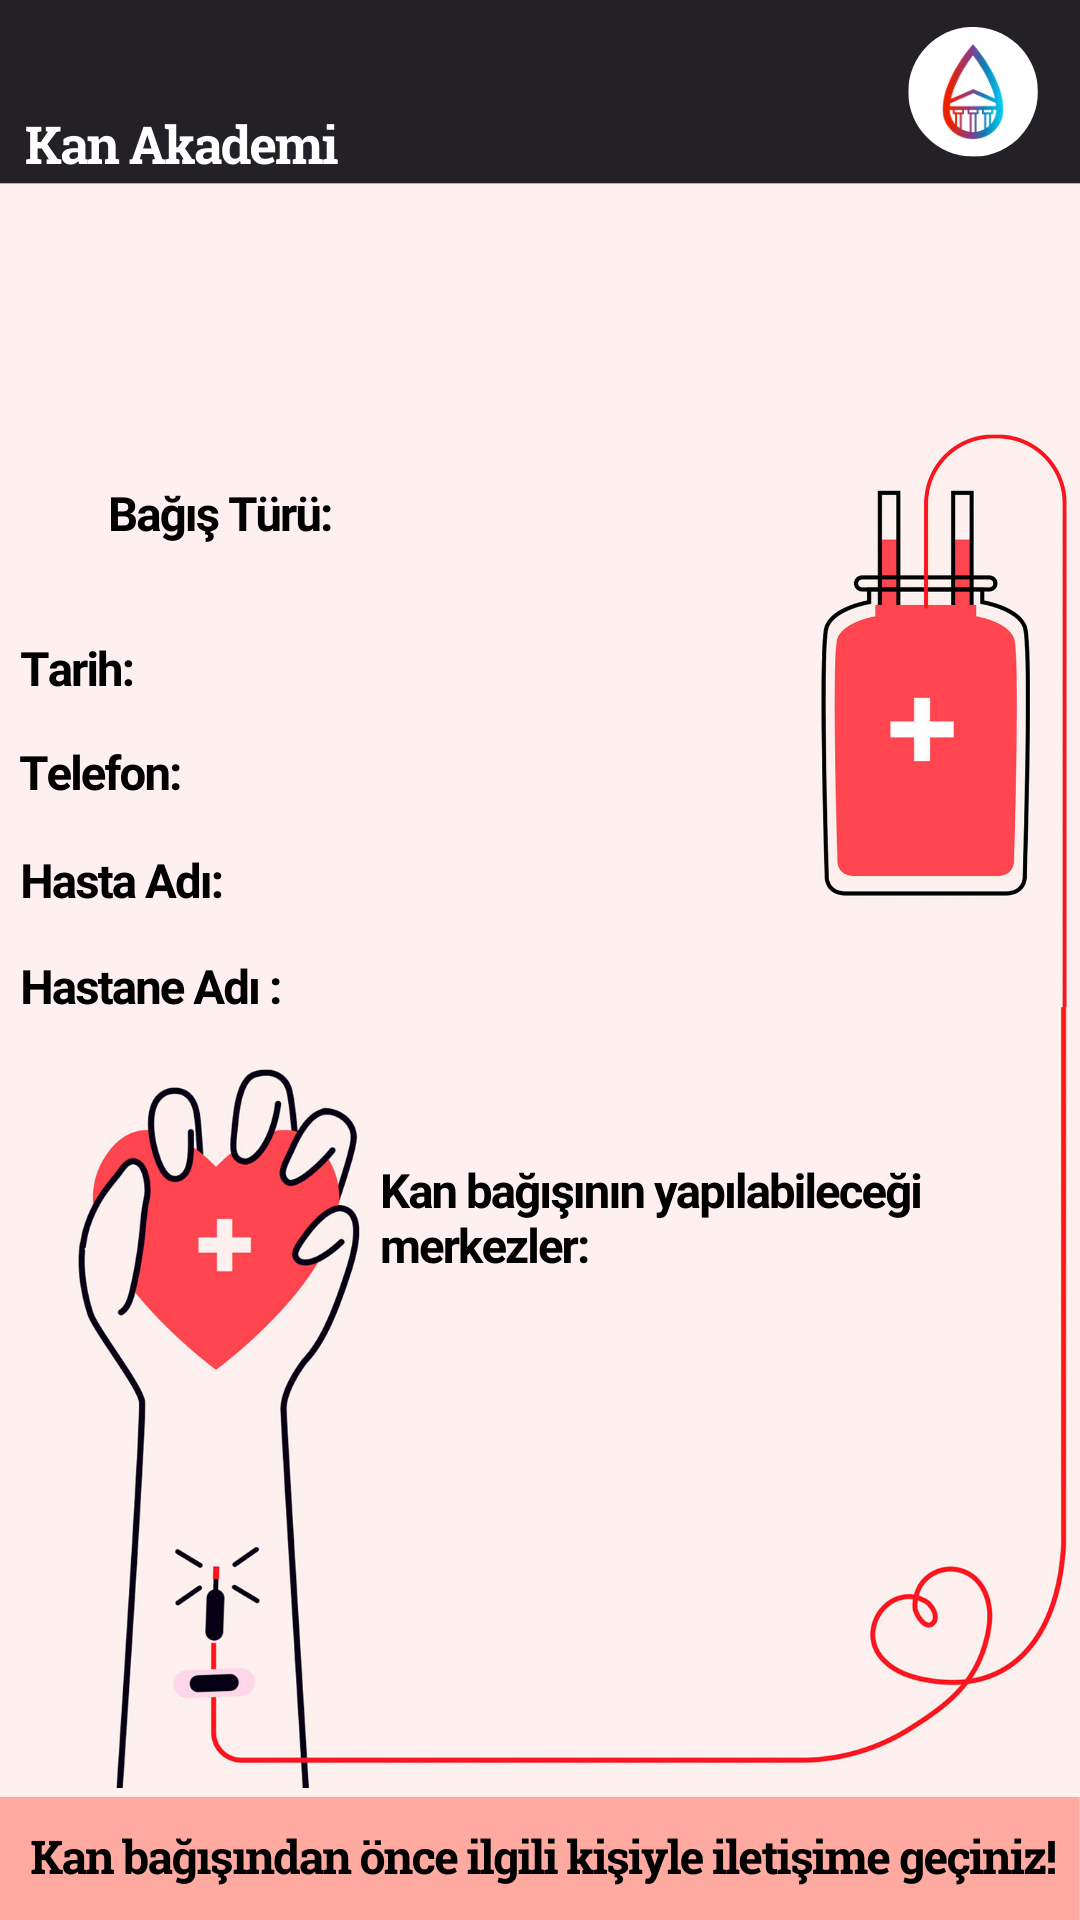
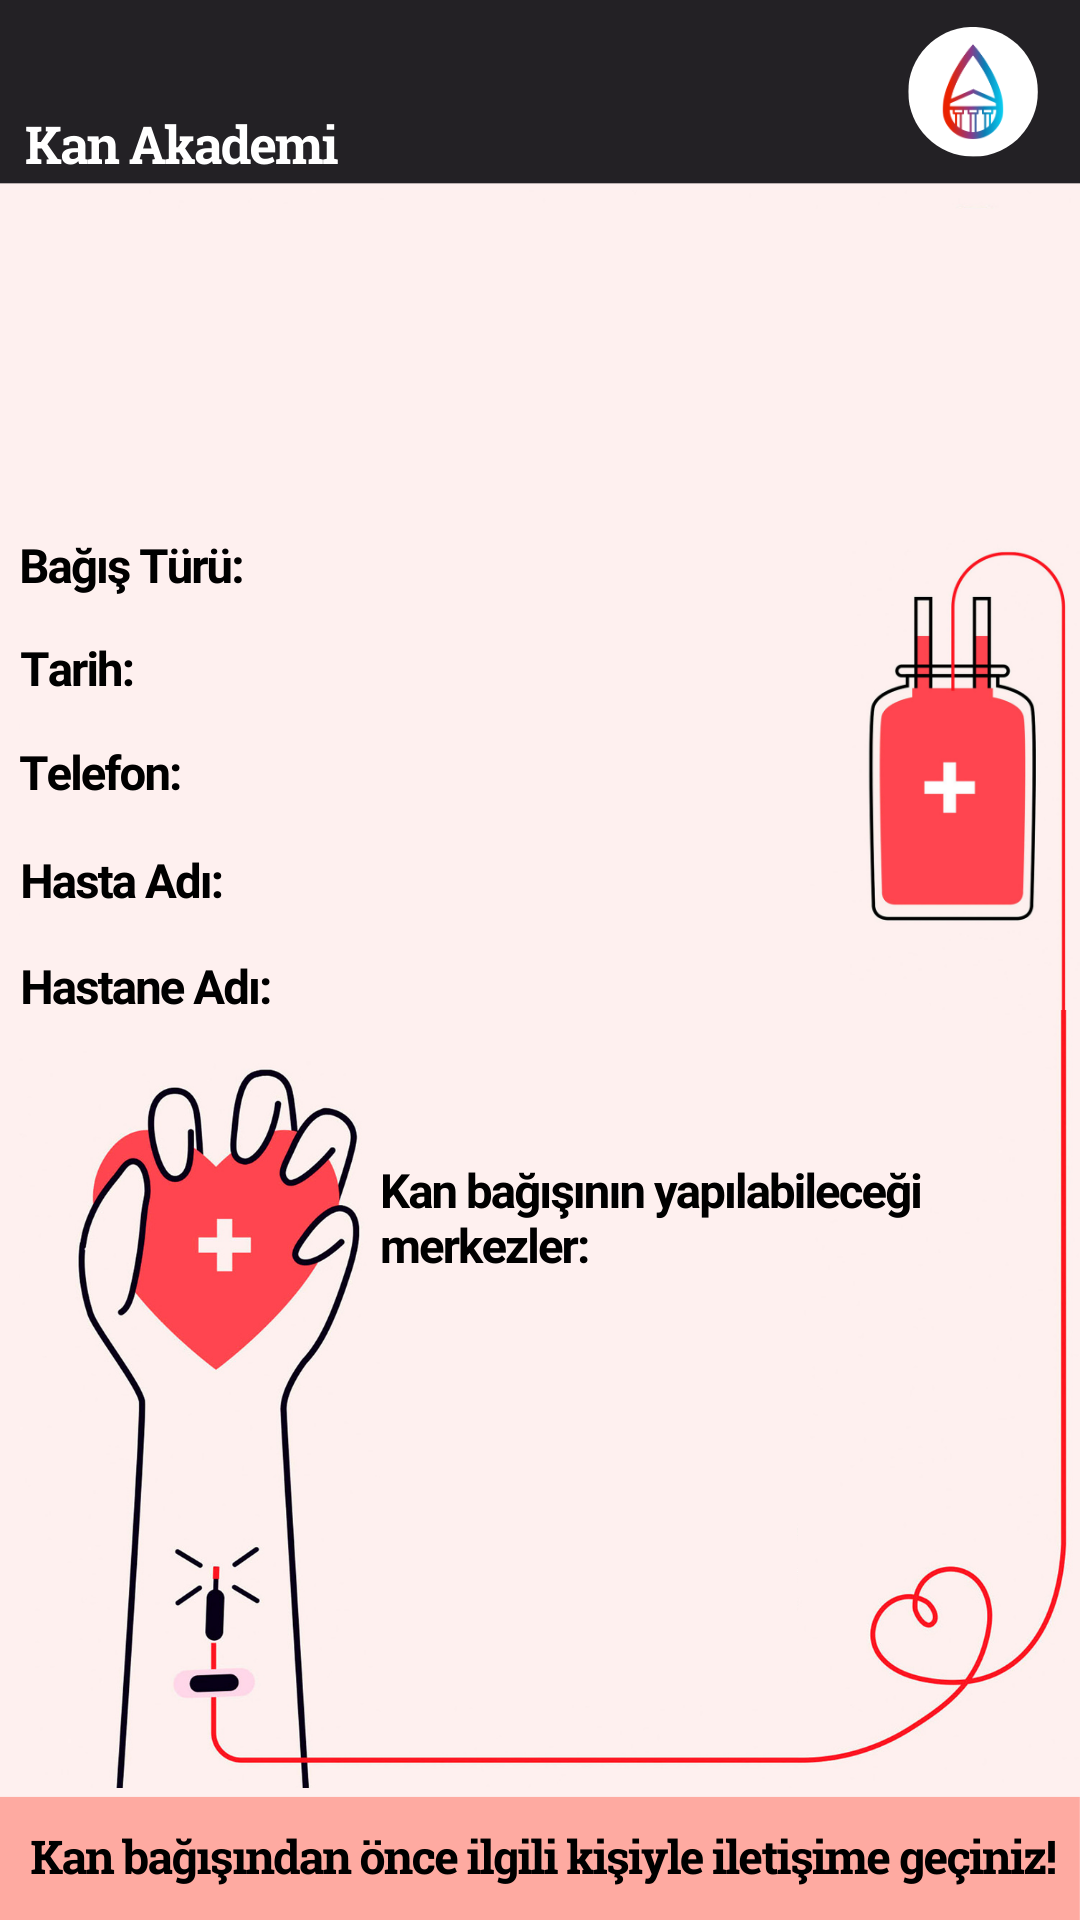
feat: update asset version

Changed region(s): [[0.7333, 0.2188, 1.0, 0.5312], [0.0, 0.25, 0.3056, 0.3125], [0.9472, 0.2188, 0.9778, 0.25]]

diff --git a/src/templates/Template5/config.ts b/src/templates/Template5/config.ts
@@ -1,7 +1,6 @@
+import { ASSET_VERSION } from "../assetVersion";
 import type { TemplateConfig } from "../types";
 import AutoAwesomeIcon from '@mui/icons-material/AutoAwesome';
-
-const ASSET_VERSION = "20251020";
 
 export const config: TemplateConfig = {
   id: "5",
@@ -9,13 +8,13 @@ export const config: TemplateConfig = {
   selectorIcon: AutoAwesomeIcon,
   templatePath: `kan-akademi-ilan-template-5.png?v=${ASSET_VERSION}`,
   styles: {
-    bloodGroup: { coord: { top: 83, left: 47 }, font: { size: 78, color: "#ffffff" } },
-    regardlessBloodGroup: { coord: { top: 70, left: 35 }, font: { size: 45, color: "#ffffff" } },
-    bloodType: { coord: { top: 188, left: 165 }, font: { size: 17, color: "#000000" } },
-    fullName: { width: 165, coord: { top: 275, left: 10 }, font: { size: 17, color: "#000000" } },
-    phone: { coord: { top: 347, left: 188 }, font: { size: 17, color: "#000000" } },
-    date: { coord: { top: 244, left: 229 }, font: { size: 17, color: "#000000" } },
-    hospital: { coord: { top: 435, left: 10 }, font: { size: 16, color: "#000000" } },
-    location: { coord: { top: 508, left: 10 }, font: { size: 16, color: "#000000" } },
+    bloodGroup: { coord: { top: 83, left: 47 }, font: { size: 78, color: "#000000" } },
+    regardlessBloodGroup: { coord: { top: 65, left: 35 }, font: { size: 45, color: "#000000" } },
+    bloodType: { coord: { top: 187, left: 80 }, font: { size: 17, color: "#000000" } },
+    fullName: { width: 165, coord: { top: 365, left: 5 }, font: { size: 17, color: "#000000" } },
+    phone: { coord: { top: 299, left: 60 }, font: { size: 17, color: "#000000" } },
+    date: { coord: { top: 253, left: 45 }, font: { size: 17, color: "#000000" } },
+    hospital: { coord: { top: 435, left: 5 }, font: { size: 16, color: "#000000" } },
+    location: { coord: { top: 508, left: 5 }, font: { size: 16, color: "#000000" } },
   },
 };

diff --git a/src/templates/Template3/config.ts b/src/templates/Template3/config.ts
@@ -1,7 +1,6 @@
+import { ASSET_VERSION } from "../assetVersion";
 import type { TemplateConfig } from "../types";
 import LocalFloristIcon from '@mui/icons-material/LocalFlorist';
-
-const ASSET_VERSION = "20251020";
 
 export const config: TemplateConfig = {
   id: "3",
@@ -9,13 +8,13 @@ export const config: TemplateConfig = {
   selectorIcon: LocalFloristIcon,
   templatePath: `kan-akademi-ilan-template-3.png?v=${ASSET_VERSION}`,
   styles: {
-    bloodGroup: { coord: { top: 70, left: 80 }, font: { size: 70, color: "#89e8e0" } },
-    regardlessBloodGroup: { coord: { top: 75, left: 70 }, font: { size: 37, color: "#89e8e0" } },
-    bloodType: { coord: { top: 171, left: 150 }, font: { size: 17, color: "#000000" } },
-    fullName: { coord: { top: 348, left: 102 }, font: { size: 17, color: "#000000" } },
-    phone: { coord: { top: 270, left: 86 }, font: { size: 17, color: "#000000" } },
-    date: { coord: { top: 222, left: 70 }, font: { size: 17, color: "#000000" } },
+    bloodGroup: { coord: { top: 70, left: 80 }, font: { size: 70, color: "#ff4550" } },
+    regardlessBloodGroup: { coord: { top: 75, left: 70 }, font: { size: 37, color: "#ff4550" } },
+    bloodType: { coord: { top: 182, left: 88 }, font: { size: 17, color: "#000000" } },
+    fullName: { coord: { top: 365, left: 30 }, font: { size: 17, color: "#000000" } },
+    phone: { coord: { top: 273, left: 70 }, font: { size: 17, color: "#000000" } },
+    date: { coord: { top: 227, left: 50 }, font: { size: 17, color: "#000000" } },
     hospital: { coord: { top: 418, left: 31 }, font: { size: 16, color: "#000000" } },
-    location: { coord: { top: 470, left: 31 }, font: { size: 16, color: "#000000" } },
+    location: { width: 329, coord: { top: 470, left: 31 }, font: { size: 16, color: "#000000" } },
   },
 };

diff --git a/src/templates/Template6/config.ts b/src/templates/Template6/config.ts
@@ -1,7 +1,6 @@
+import { ASSET_VERSION } from "../assetVersion";
 import type { TemplateConfig } from "../types";
 import WaterDropIcon from '@mui/icons-material/WaterDrop';
-
-const ASSET_VERSION = "20251020";
 
 export const config: TemplateConfig = {
   id: "6",
@@ -9,13 +8,13 @@ export const config: TemplateConfig = {
   selectorIcon: WaterDropIcon,
   templatePath: `kan-akademi-ilan-template-6.png?v=${ASSET_VERSION}`,
   styles: {
-    bloodGroup: { coord: { top: 83, left: 47 }, font: { size: 78, color: "#da2f47" } },
-    regardlessBloodGroup: { coord: { top: 55, left: 25 }, font: { size: 47, color: "#da2f47" } },
-    bloodType: { coord: { top: 180, left: 135 }, font: { size: 17, color: "#000000" } },
+    bloodGroup: { coord: { top: 83, left: 47 }, font: { size: 78, color: "#000000" } },
+    regardlessBloodGroup: { coord: { top: 66, left: 25 }, font: { size: 47, color: "#000000" } },
+    bloodType: { coord: { top: 208, left: 88 }, font: { size: 17, color: "#000000" } },
     fullName: { coord: { top: 325, left: 80 }, font: { size: 17, color: "#000000" } },
     phone: { coord: { top: 284, left: 65 }, font: { size: 17, color: "#000000" } },
-    date: { coord: { top: 247, left: 50 }, font: { size: 17, color: "#000000" } },
+    date: { coord: { top: 246, left: 50 }, font: { size: 17, color: "#000000" } },
     hospital: { width: 340, coord: { top: 390, left: 10 }, font: { size: 16, color: "#000000" } },
-    location: { coord: { top: 450, left: 10 }, font: { size: 16, color: "#000000" } },
+    location: { coord: { top: 452, left: 10 }, font: { size: 16, color: "#000000" } },
   },
 };

diff --git a/src/templates/Template4/config.ts b/src/templates/Template4/config.ts
@@ -1,7 +1,6 @@
+import { ASSET_VERSION } from "../assetVersion";
 import type { TemplateConfig } from "../types";
 import PixIcon from '@mui/icons-material/Pix';
-
-const ASSET_VERSION = "20251020";
 
 export const config: TemplateConfig = {
   id: "4",
@@ -11,11 +10,11 @@ export const config: TemplateConfig = {
   styles: {
     bloodGroup: { coord: { top: 83, left: 44 }, font: { size: 78, color: "#f74e47" } },
     regardlessBloodGroup: { coord: { top: 80, left: 50 }, font: { size: 40, color: "#f74e47" } },
-    bloodType: { coord: { top: 225, left: 130 }, font: { size: 17, color: "#000000" } },
-    fullName: { coord: { top: 349, left: 96 }, font: { size: 17, color: "#000000" } },
-    phone: { coord: { top: 316, left: 85 }, font: { size: 17, color: "#000000" } },
-    date: { coord: { top: 284, left: 67 }, font: { size: 17, color: "#000000" } },
-    hospital: { coord: { top: 400, left: 25 }, font: { size: 16, color: "#000000" } },
+    bloodType: { coord: { top: 217, left: 104 }, font: { size: 17, color: "#000000" } },
+    fullName: { coord: { top: 325, left: 96 }, font: { size: 17, color: "#000000" } },
+    phone: { coord: { top: 290, left: 82 }, font: { size: 17, color: "#000000" } },
+    date: { coord: { top: 254, left: 65 }, font: { size: 17, color: "#000000" } },
+    hospital: { coord: { top: 385, left: 25 }, font: { size: 16, color: "#000000" } },
     location: { coord: { top: 475, left: 25 }, font: { size: 16, color: "#000000" } },
   },
 };

diff --git a/src/templates/Template2/config.ts b/src/templates/Template2/config.ts
@@ -1,7 +1,6 @@
+import { ASSET_VERSION } from "../assetVersion";
 import type { TemplateConfig } from "../types";
 import FavoriteIcon from '@mui/icons-material/Favorite';
-
-const ASSET_VERSION = "20251020";
 
 export const config: TemplateConfig = {
     id: "2",
@@ -11,10 +10,10 @@ export const config: TemplateConfig = {
     styles: {
         bloodGroup: { coord: { top: 60, left: 47 }, font: { size: 78, color: "#ff4550" } },
         regardlessBloodGroup: { coord: { top: 68, left: 60 }, font: { size: 35, color: "#ff4550" } },
-        bloodType: { coord: { top: 159, left: 113 }, font: { size: 17, color: "#000000" } },
-        fullName: { coord: { top: 281, left: 80 }, font: { size: 17, color: "#000000" } },
-        phone: { coord: { top: 246, left: 65 }, font: { size: 17, color: "#000000" } },
-        date: { coord: { top: 211, left: 50 }, font: { size: 17, color: "#000000" } },
+        bloodType: { coord: { top: 176, left: 83 }, font: { size: 17, color: "#000000" } },
+        fullName: { coord: { top: 282, left: 78 }, font: { size: 17, color: "#000000" } },
+        phone: { coord: { top: 245, left: 65 }, font: { size: 17, color: "#000000" } },
+        date: { coord: { top: 211, left: 48 }, font: { size: 17, color: "#000000" } },
         hospital: { coord: { top: 340, left: 6 }, font: { size: 16, color: "#000000" } },
         location: { width: 220, coord: { top: 428, left: 126 }, font: { size: 16, color: "#000000" } },
     },

diff --git a/src/templates/Template2/Template2Component.tsx b/src/templates/Template2/Template2Component.tsx
@@ -24,7 +24,7 @@ export function Template2Component(props: TemplateProps) {
     const originalBloodTypeFontSize = useRef(config.styles.bloodType.font.size);
 
     if (donationInfo.bloodType.length > 3) {
-        config.styles.bloodType.coord.top = 150;
+        config.styles.bloodType.coord.top = 165;
         config.styles.bloodType.font.size = 15;
     } else {
         config.styles.bloodType.coord.top = originalBloodTypeTop.current;

diff --git a/src/templates/Template3/Template3Component.tsx b/src/templates/Template3/Template3Component.tsx
@@ -26,7 +26,7 @@ export function Template3Component(props: TemplateProps) {
     const originalBloodTypeFontSize = useRef(config.styles.bloodType.font.size);
 
     if (donationInfo.bloodType.length > 3) {
-        config.styles.bloodType.coord.top = 171;
+        config.styles.bloodType.coord.top = 163;
         config.styles.bloodType.font.size = 15;
     } else {
         config.styles.bloodType.coord.top = originalBloodTypeTop.current;

diff --git a/src/templates/Template5/Template5Component.tsx b/src/templates/Template5/Template5Component.tsx
@@ -28,7 +28,7 @@ export function Template5Component(props: TemplateProps) {
     const originalBloodTypeFontSize = useRef(config.styles.bloodType.font.size);
 
     if (donationInfo.bloodType.length > 3) {
-        config.styles.bloodType.coord.top = 188;
+        config.styles.bloodType.coord.top = 179;
         config.styles.bloodType.font.size = 15;
     } else {
         config.styles.bloodType.coord.top = originalBloodTypeTop.current;

diff --git a/src/templates/Template6/Template6Component.tsx b/src/templates/Template6/Template6Component.tsx
@@ -23,7 +23,7 @@ export function Template6Component(props: TemplateProps) {
     const originalBloodTypeFontSize = useRef(config.styles.bloodType.font.size);
 
     if (donationInfo.bloodType.length > 3) {
-        config.styles.bloodType.coord.top = 180;
+        config.styles.bloodType.coord.top = 197;
         config.styles.bloodType.font.size = 15;
     } else {
         config.styles.bloodType.coord.top = originalBloodTypeTop.current;

diff --git a/src/templates/Template1/config.ts b/src/templates/Template1/config.ts
@@ -1,7 +1,6 @@
+import { ASSET_VERSION } from "../assetVersion";
 import type { TemplateConfig } from "../types";
 import StarIcon from '@mui/icons-material/Star';
-
-const ASSET_VERSION = "20251020";
 
 export const config: TemplateConfig = {
     id: "1",

diff --git a/src/templates/assetVersion.ts b/src/templates/assetVersion.ts
@@ -1,0 +1,1 @@
+export const ASSET_VERSION = "20260202";
